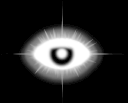
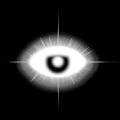
Added registration page

diff --git a/src/home/register.jsx b/src/home/register.jsx
@@ -1,0 +1,52 @@
+import React from "react";
+import {NavLink} from "react-router-dom";
+import "./home.css"
+
+export function Register() {
+    return (
+        <div className="body">
+            <header>
+                <h1>Sign up for Starsight account</h1>
+                <nav>
+                    <NavLink className="navlink" to="/">Home</NavLink>
+                    <NavLink className="navlink" to="/game">Game</NavLink>
+                    <NavLink className="navlink" to="/scores">Scores</NavLink>
+                </nav>
+            </header>
+
+            <main>
+                <div>
+                    <form action="/">
+                        <section>
+                            <label for="email">E-mail:</label>
+                            <input type="email">
+                            </input>
+                        </section>
+
+                        <section>
+                            <label for="username">Username:</label>
+                            <input type="username">
+                            </input>
+                        </section>
+
+                        <section>
+                            <label for="password">Password:</label>
+                            <input type="password">
+                            </input>
+                        </section>
+
+                        <section>
+                            <label for="password">Confirm Password:</label>
+                            <input type="password">
+                            </input>
+                        </section>
+
+                        <button type="submit">Create account</button>
+
+                    </form>
+                </div>
+            </main>
+
+        </div>
+    );
+}

diff --git a/index.html b/index.html
@@ -1,10 +1,6 @@
 <!DOCTYPE html>
 
 <head>
-<!--
-    <title>Log into Starsight</title>
-    <link rel="stylesheet" href="index.css">
--->
     <link rel="icon" href="delver.png">
     <meta name="viewport" content="width=device-width, initial-scale=1" />
 </head>
@@ -12,43 +8,10 @@
     <noscript>Error: JavaScript not enabled</noscript>
     <script type="module" src="index.jsx"></script>
     <div id="root"></div>
-<!--
-    <header>
-        <h1>Log into Starsight</h1>
-        <nav>
-            <a class="current navlink" href="index.html">Log in</a>
-            <a class="navlink" href="game.html">Game</a>
-            <a class="navlink" href="scores.html">Scores</a>
-        </nav>
-    </header>
-    <main>
-        <div>
-            <form action="game.html">
-                <section>
-                    <label for="username">Username:</label>
-                    <input type="username">
-                    </input>
-                </section>
-
-                <section>
-                    <label for="password">Password:</label>
-                    <input type="password">
-                    </input>
-                </section>
-
-                <button type="submit">Log in</button>
-                <a href="register.html">
-                    <button type="button">Create account</button>
-                </a>
-            </form>
-        </div>
-    </main>
-    <footer>
-        <p>View on</p>
-        <a href="https://github.com/MattSteveMitch/startup">
-            <img src="images/github.png" alt="Github logo" width=70>
-        </a>
-        <p>Matthew Mitchell</p>
-    </footer>
--->
 </body>
+
+<!--To do:
+registration page
+not found page
+Make login button link to game page?
+-->

diff --git a/src/home/login.jsx b/src/home/login.jsx
@@ -2,7 +2,7 @@ import React from "react";
 import {NavLink} from "react-router-dom";
 import "./home.css";
 
-export function Home() {
+export function Login() {
     return (
         <div className="body">
             <header>
@@ -15,7 +15,7 @@ export function Home() {
             </header>
             <main>
                 <div>
-                    <form action="game.html">
+                    <form action="/game">
                         <section>
                             <label htmlFor="username">Username:</label>
                             <input type="username">
@@ -29,7 +29,7 @@ export function Home() {
                         </section>
 
                         <button type="submit">Log in</button>
-                        <a href="register.html">
+                        <a href="/register">
                             <button type="button">Create account</button>
                         </a>
                     </form>

diff --git a/src/app.jsx b/src/app.jsx
@@ -1,8 +1,9 @@
 import React from "react";
 import {BrowserRouter, Routes, Route} from "react-router-dom";
-import {Home} from "/src/home/home";
+import {Login} from "/src/home/login";
 import {Game} from "/src/game/game";
 import {Scores} from "/src/scores/scores";
+import {Register} from "/src/home/register";
 import "./app.css"
 
 
@@ -11,9 +12,10 @@ export default function App() {
         <div className="body">
             <BrowserRouter>
                 <Routes>
-                    <Route path="/" element={<Home />}></Route>
+                    <Route path="/" element={<Login />}></Route>
                     <Route path="/game" element={<Game />}></Route>
                     <Route path="/scores" element={<Scores />}></Route>
+                    <Route path="/register" element={<Register />}></Route>
                 </Routes>
             </BrowserRouter>
         </div>
